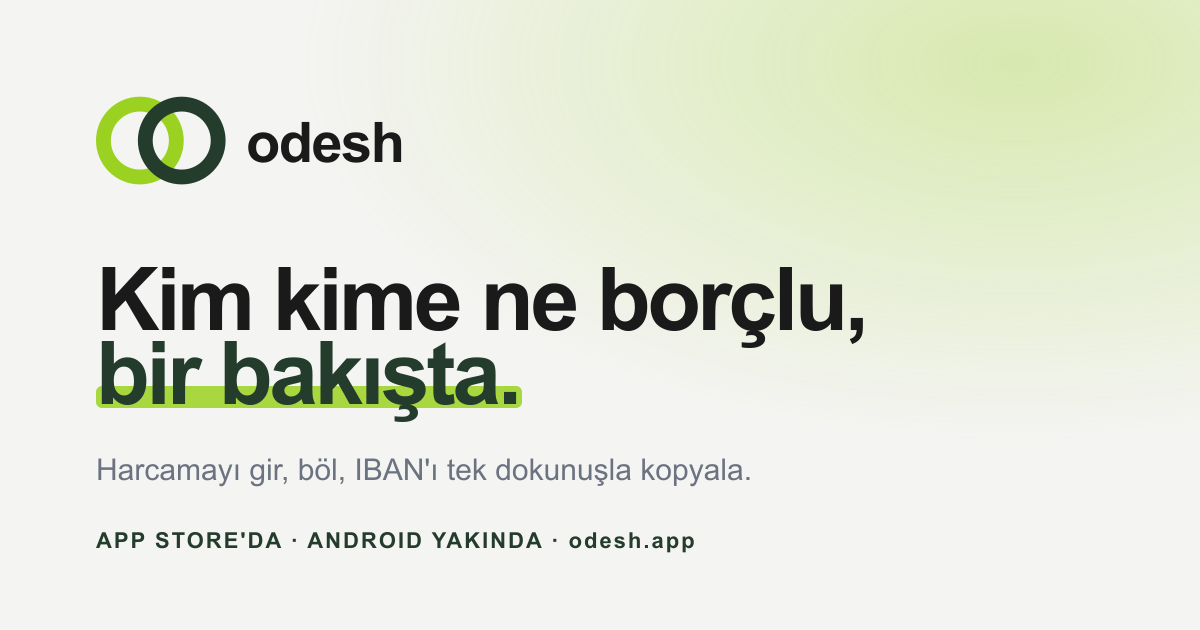
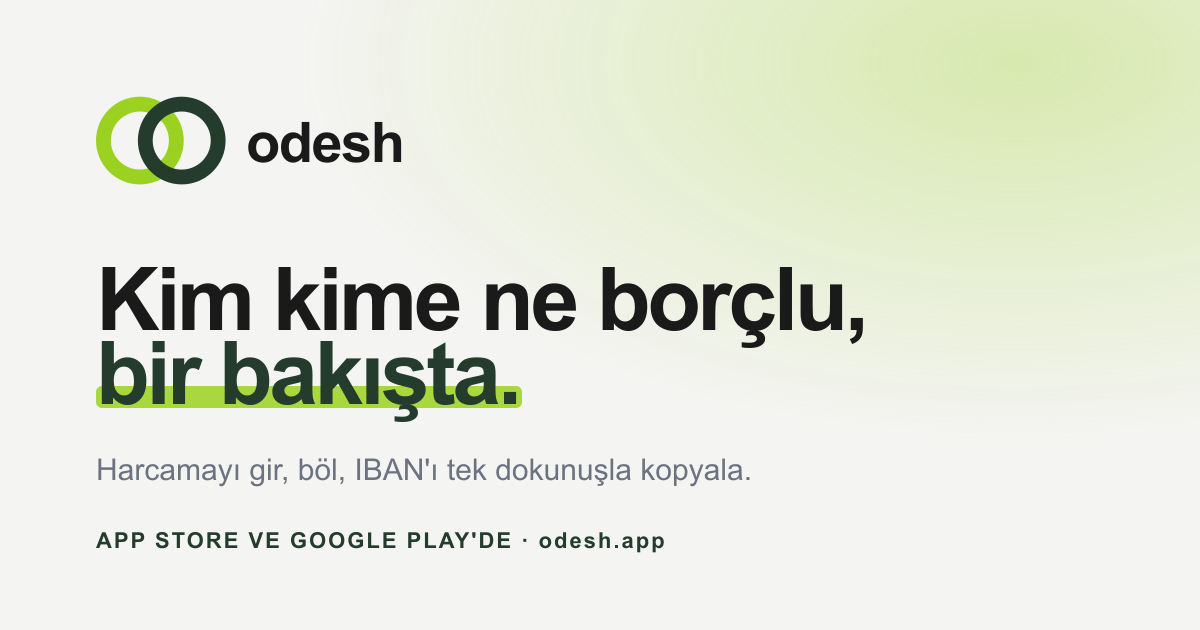
feat: link the Google Play listing
The Android app is live, so the Play badge now links to the listing and the "Android soon" copy, share images and README note are updated.

Changed region(s): [[0.185, 0.8444, 0.5858, 0.8746]]

diff --git a/src/i18n/en.ts b/src/i18n/en.ts
@@ -5,7 +5,7 @@ export const en: Dictionary = {
     siteTitle: 'odesh',
     homeTitle: 'odesh - Who owes whom, at a glance',
     homeDescription:
-      'Split expenses with friends, see every open balance in one list, copy an IBAN in a single tap. odesh does the reminding, so you keep the friendship. Free, no ads. On the App Store in Türkiye; more countries and Android coming soon.',
+      'Split expenses with friends, see every open balance in one list, copy an IBAN in a single tap. odesh does the reminding, so you keep the friendship. Free, no ads. On the App Store and Google Play in Türkiye; more countries coming soon.',
     featuresTitleSuffix: 'odesh features',
     notFoundTitle: 'Page not found',
     notFoundBody: 'The page you are looking for may have moved or never existed.',
@@ -30,7 +30,7 @@ export const en: Dictionary = {
     menuLabel: 'Menu',
   },
   hero: {
-    eyebrow: 'On the App Store in Türkiye · Android soon',
+    eyebrow: 'On the App Store and Google Play in Türkiye',
     title1: 'Who owes whom,',
     title2: 'at a glance.',
     sub: 'Log the expense, split it with friends, copy their IBAN in one tap. odesh does the reminding, so you keep the friendship.',
@@ -176,8 +176,8 @@ export const en: Dictionary = {
     ],
   },
   cta: {
-    title: 'On the App Store in Türkiye. More countries and Google Play soon.',
-    sub: 'Free, no ads, no data sales. New countries and the Android version will appear here as they launch.',
+    title: 'On the App Store and Google Play in Türkiye. More countries soon.',
+    sub: 'Free, no ads, no data sales. New countries will appear here as they launch.',
   },
   footer: {
     tag: 'A debt-tracking app built around IBAN transfers. Who owes whom, at a glance.',

diff --git a/src/i18n/tr.ts b/src/i18n/tr.ts
@@ -5,7 +5,7 @@ export const tr: Dictionary = {
     siteTitle: 'odesh',
     homeTitle: 'odesh - Kim kime ne borçlu, bir bakışta',
     homeDescription:
-      "Arkadaşlarınla harcamaları böl, açık borçları tek listede gör, IBAN'ı tek dokunuşla kopyala. Hatırlatmayı odesh yapar, sen aranı bozmazsın. Ücretsiz ve reklamsız. App Store'da, Android yakında.",
+      "Arkadaşlarınla harcamaları böl, açık borçları tek listede gör, IBAN'ı tek dokunuşla kopyala. Hatırlatmayı odesh yapar, sen aranı bozmazsın. Ücretsiz ve reklamsız. App Store'da ve Google Play'de.",
     featuresTitleSuffix: 'odesh özellikleri',
     notFoundTitle: 'Sayfa bulunamadı',
     notFoundBody: 'Aradığın sayfa taşınmış ya da hiç var olmamış olabilir.',
@@ -30,7 +30,7 @@ export const tr: Dictionary = {
     menuLabel: 'Menü',
   },
   hero: {
-    eyebrow: "App Store'da · Android yakında",
+    eyebrow: "App Store'da ve Google Play'de",
     title1: 'Kim kime ne borçlu,',
     title2: 'bir bakışta.',
     sub: "Harcamayı gir, arkadaşlarınla böl, IBAN'ı tek dokunuşla kopyala. Hatırlatmayı odesh yapar, sen aranı bozmazsın.",
@@ -176,8 +176,8 @@ export const tr: Dictionary = {
     ],
   },
   cta: {
-    title: 'App Store’da. Google Play’de yakında.',
-    sub: 'Ücretsiz, reklamsız, veri satışı yok. Android sürümü yayına çıktığı gün burada olacak.',
+    title: 'App Store’da ve Google Play’de.',
+    sub: 'Ücretsiz, reklamsız, veri satışı yok.',
   },
   footer: {
     tag: 'Türkiye için tasarlanmış borç takip uygulaması. Kim kime ne borçlu, bir bakışta.',

diff --git a/src/config/site.ts b/src/config/site.ts
@@ -7,11 +7,11 @@ export const SITE = {
   copyrightYear: 2026,
   /** Per store: true once the listing is public. Live badges link out ("İndir"), others stay "Yakında". */
   appStoreLive: true,
-  playStoreLive: false,
+  playStoreLive: true,
   // Türkiye storefront on purpose: the id-only link resolves to the US storefront on desktop and 404s while the app
   // is not sold there. On iPhone the App Store opens the user's own storefront either way.
   appStoreUrl: 'https://apps.apple.com/tr/app/odesh/id6802964428',
-  playStoreUrl: 'https://play.google.com/',
+  playStoreUrl: 'https://play.google.com/store/apps/details?id=com.odesh.mobile',
   /** Milliseconds between automatic hero phone screen changes. */
   heroCycleMs: 4200,
 } as const;

diff --git a/README.md b/README.md
@@ -74,7 +74,7 @@ are moot on Netlify, but if this ever moves again, check for both.
 
 Per store in `src/config/site.ts`: set `appStoreLive` / `playStoreLive` to `true` with the real URL. That badge becomes a
 link labelled "İndir"; a store that is not live stays a disabled "Yakında" badge. App Store has been live since 10-15
-(Türkiye storefront link, see the comment there); Google Play is still pending.
+(Türkiye storefront link, see the comment there); Google Play is live too.
 
 ## Regenerating images
 
